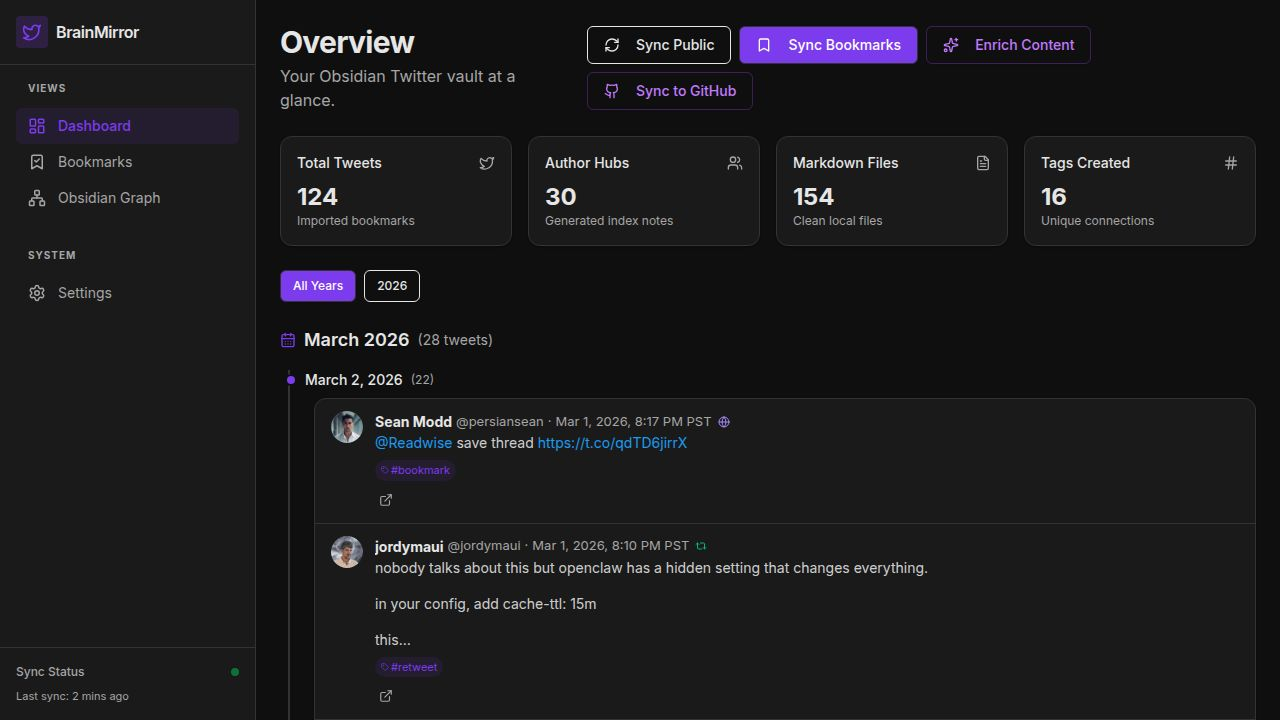
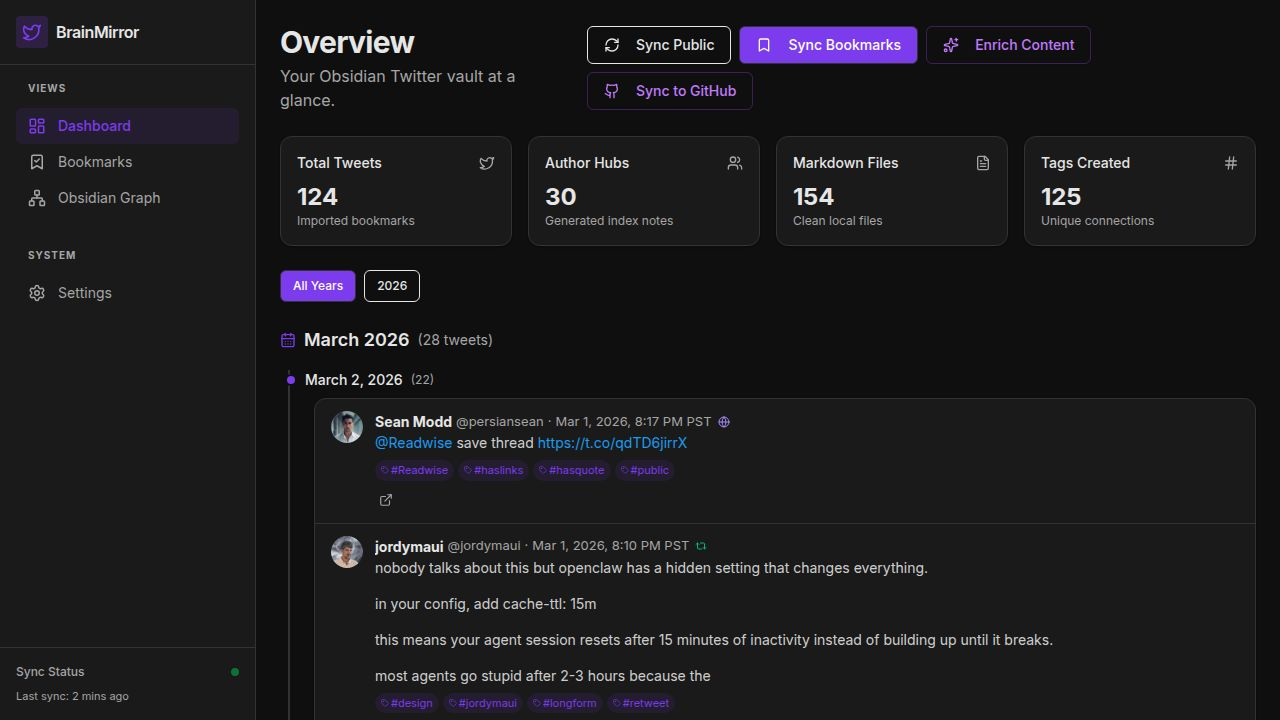
Improve tweet display to show full content and thread information
Refactors markdown generation and UI components to display full tweet content, including threads, and adds thread indicators to the dashboard and tweet pages.

Replit-Commit-Author: Agent
Replit-Commit-Session-Id: 5342a304-a4a8-490d-b331-d19f95d917d5
Replit-Commit-Checkpoint-Type: full_checkpoint
Replit-Commit-Event-Id: 4c083a5c-7874-4ee5-9667-5a37c9619313
Replit-Commit-Screenshot-Url: https://storage.googleapis.com/screenshot-production-us-central1/31c7cee5-2e00-4bf3-b877-27cbd05c0656/5342a304-a4a8-490d-b331-d19f95d917d5/33dNOlT
Replit-Helium-Checkpoint-Created: true

Changed region(s): [[0.2812, 0.8861, 0.8125, 1.0], [0.3125, 0.6417, 0.5312, 0.6722], [0.8125, 0.2444, 0.8438, 0.3056]]

diff --git a/server/routes.ts b/server/routes.ts
@@ -136,7 +136,39 @@ function getDateParts(dateStr: string): { year: string; month: string; monthName
   return { year, month, monthName, day, dateIso };
 }
 
-function generateMarkdown(tweet: TweetNote, filenameTemplate: string) {
+function renderSingleTweetBody(tweet: TweetNote): string[] {
+  const lines: string[] = [];
+
+  const body = tweet.content
+    .replace(/@(\w+)/g, "[[@$1]]")
+    .replace(/#(\w+)/g, "[[#$1]]");
+
+  lines.push(body);
+
+  const mediaUrls = (tweet.mediaUrls || []).filter(u => u && u !== "");
+  if (mediaUrls.length > 0) {
+    lines.push("");
+    lines.push("**Media:**");
+    mediaUrls.forEach((url, i) => {
+      lines.push(`![Tweet media ${i + 1}](${url})`);
+    });
+  }
+
+  if (tweet.quotedTweetContent && tweet.quotedTweetAuthorHandle) {
+    lines.push("");
+    lines.push("**Quoted Tweet:**");
+    lines.push(`> **${tweet.quotedTweetAuthorName || tweet.quotedTweetAuthorHandle}** (@${tweet.quotedTweetAuthorHandle})`);
+    lines.push(">");
+    const quotedLines = tweet.quotedTweetContent.split("\n");
+    quotedLines.forEach(line => {
+      lines.push(`> ${line}`);
+    });
+  }
+
+  return lines;
+}
+
+function generateMarkdown(tweet: TweetNote, filenameTemplate: string, allTweets?: TweetNote[]) {
   const { year, month, monthName, day, dateIso } = getDateParts(tweet.createdAt);
   const contentTrunc = tweet.content.substring(0, 40).replace(/[^a-zA-Z0-9 ]/g, "").trim();
   const filename = filenameTemplate
@@ -149,6 +181,13 @@ function generateMarkdown(tweet: TweetNote, filenameTemplate: string) {
   const folderPath = `${year}/${month}-${monthName}/${day}`;
 
   const allTags = autoGenerateTags(tweet);
+
+  const threadTweets = allTweets
+    ? allTweets
+        .filter(t => t.conversationId === tweet.conversationId)
+        .sort((a, b) => new Date(a.createdAt).getTime() - new Date(b.createdAt).getTime())
+    : [];
+  const isThread = threadTweets.length > 1;
 
   const frontmatter = [
     "---",
@@ -168,32 +207,84 @@ function generateMarkdown(tweet: TweetNote, filenameTemplate: string) {
     tweet.quotedTweetId ? `quoted_tweet_id: ${tweet.quotedTweetId}` : null,
     tweet.inReplyToTweetId ? `in_reply_to_tweet_id: ${tweet.inReplyToTweetId}` : null,
     (tweet.mediaUrls || []).filter(u => u).length > 0 ? `media_count: ${tweet.mediaUrls!.filter(u => u).length}` : null,
+    isThread ? `thread_length: ${threadTweets.length}` : null,
     "---",
   ].filter(Boolean).join("\n");
 
-  const body = tweet.content
-    .replace(/@(\w+)/g, "[[@$1]]")
-    .replace(/#(\w+)/g, "[[#$1]]");
+  const sections: string[] = [frontmatter, ""];
 
-  const sections: string[] = [frontmatter, "", body];
+  const mainBody = renderSingleTweetBody(tweet);
+  sections.push(...mainBody);
 
-  const mediaUrls = (tweet.mediaUrls || []).filter(u => u && u !== "");
-  if (mediaUrls.length > 0) {
+  if (isThread) {
     sections.push("");
-    sections.push("## Media");
-    mediaUrls.forEach((url, i) => {
-      sections.push(`![Tweet media ${i + 1}](${url})`);
-    });
-  }
-
-  if (tweet.quotedTweetContent && tweet.quotedTweetAuthorHandle) {
+    sections.push("---");
     sections.push("");
-    sections.push("## Quoted Tweet");
-    sections.push(`> **${tweet.quotedTweetAuthorName || tweet.quotedTweetAuthorHandle}** (@${tweet.quotedTweetAuthorHandle})`);
-    sections.push(">");
-    const quotedLines = tweet.quotedTweetContent.split("\n");
-    quotedLines.forEach(line => {
-      sections.push(`> ${line}`);
+    sections.push(`## Full Thread (${threadTweets.length} tweets)`);
+    sections.push("");
+
+    threadTweets.forEach((t, idx) => {
+      const isCurrentTweet = t.tweetId === tweet.tweetId;
+      const tweetDate = getDateParts(t.createdAt).dateIso;
+      const tweetBody = t.content
+        .replace(/@(\w+)/g, "[[@$1]]")
+        .replace(/#(\w+)/g, "[[#$1]]");
+
+      const headerLabel = isCurrentTweet
+        ? `${idx + 1}/${threadTweets.length} — @${t.authorHandle} (${tweetDate}) ⬅ this tweet`
+        : `${idx + 1}/${threadTweets.length} — @${t.authorHandle} (${tweetDate})`;
+
+      if (isCurrentTweet) {
+        sections.push(`### ${headerLabel}`);
+        sections.push("");
+        sections.push(tweetBody);
+      } else {
+        sections.push(`> [!note]- ${headerLabel}`);
+        sections.push(">");
+        const tweetLines = tweetBody.split("\n");
+        tweetLines.forEach(line => {
+          sections.push(`> ${line}`);
+        });
+      }
+
+      const tMediaUrls = (t.mediaUrls || []).filter(u => u && u !== "");
+      if (tMediaUrls.length > 0) {
+        if (isCurrentTweet) {
+          sections.push("");
+          tMediaUrls.forEach((url, i) => {
+            sections.push(`![Tweet media ${i + 1}](${url})`);
+          });
+        } else {
+          sections.push(">");
+          tMediaUrls.forEach((url, i) => {
+            sections.push(`> ![Tweet media ${i + 1}](${url})`);
+          });
+        }
+      }
+
+      if (t.quotedTweetContent && t.quotedTweetAuthorHandle) {
+        if (isCurrentTweet) {
+          sections.push("");
+          sections.push(`> **${t.quotedTweetAuthorName || t.quotedTweetAuthorHandle}** (@${t.quotedTweetAuthorHandle})`);
+          sections.push(">");
+          t.quotedTweetContent.split("\n").forEach(line => {
+            sections.push(`> ${line}`);
+          });
+        } else {
+          sections.push(">");
+          sections.push(`> > **${t.quotedTweetAuthorName || t.quotedTweetAuthorHandle}** (@${t.quotedTweetAuthorHandle})`);
+          sections.push("> >");
+          t.quotedTweetContent.split("\n").forEach(line => {
+            sections.push(`> > ${line}`);
+          });
+        }
+      }
+
+      sections.push("");
+      if (!isCurrentTweet) {
+        sections.push(`> [View tweet](${t.tweetUrl})`);
+        sections.push("");
+      }
     });
   }
 
@@ -1312,8 +1403,9 @@ export async function registerRoutes(
     try {
       const tweet = await storage.getTweetNote(req.params.id);
       if (!tweet) return res.status(404).json({ message: "Tweet note not found" });
+      const allTweets = await storage.getAllTweetNotes();
       const s = await storage.getSettings();
-      const md = generateMarkdown(tweet, s.filenameTemplate);
+      const md = generateMarkdown(tweet, s.filenameTemplate, allTweets);
       res.setHeader("Content-Type", "text/markdown; charset=utf-8");
       res.setHeader("Content-Disposition", `attachment; filename="${md.filename}"`);
       res.send(md.content);
@@ -1326,7 +1418,7 @@ export async function registerRoutes(
     try {
       const tweets = await storage.getAllTweetNotes();
       const s = await storage.getSettings();
-      const files = tweets.map(t => generateMarkdown(t, s.filenameTemplate));
+      const files = tweets.map(t => generateMarkdown(t, s.filenameTemplate, tweets));
       res.json(files);
     } catch (err: any) {
       res.status(500).json({ message: err.message });
@@ -1340,7 +1432,7 @@ export async function registerRoutes(
         return res.status(404).json({ message: "No notes to export" });
       }
       const s = await storage.getSettings();
-      const files = tweets.map(t => generateMarkdown(t, s.filenameTemplate));
+      const files = tweets.map(t => generateMarkdown(t, s.filenameTemplate, tweets));
 
       res.setHeader("Content-Type", "application/zip");
       res.setHeader("Content-Disposition", 'attachment; filename="BrainMirror-Obsidian-Notes.zip"');
@@ -1389,7 +1481,7 @@ export async function registerRoutes(
       }
       const s = await storage.getSettings();
       const files = tweets.map(t => {
-        const md = generateMarkdown(t, s.filenameTemplate);
+        const md = generateMarkdown(t, s.filenameTemplate, tweets);
         const datePath = md.folderPath ? `${md.folderPath}/${md.filename}` : md.filename;
         return { filename: datePath, content: md.content };
       });

diff --git a/client/src/pages/Dashboard.tsx b/client/src/pages/Dashboard.tsx
@@ -3,7 +3,7 @@ import { api } from "@/lib/api";
 import { queryClient } from "@/lib/queryClient";
 import { Card, CardContent } from "@/components/ui/card";
 import { Button } from "@/components/ui/button";
-import { Twitter, RefreshCw, FileText, Hash, Users, ExternalLink, Loader2, Bookmark, Repeat2, Globe, Pencil, Github, Sparkles, CalendarDays, Tag } from "lucide-react";
+import { Twitter, RefreshCw, FileText, Hash, Users, ExternalLink, Loader2, Bookmark, Repeat2, Globe, Pencil, Github, Sparkles, CalendarDays, Tag, MessageCircle } from "lucide-react";
 import { Link } from "wouter";
 import { Skeleton } from "@/components/ui/skeleton";
 import { useToast } from "@/hooks/use-toast";
@@ -465,7 +465,16 @@ export default function Dashboard() {
                                       {tweet.source === "public" && <Globe size={12} className="text-[#A78BFA] shrink-0 ml-0.5" />}
                                       {tweet.source === "manual" && <Pencil size={12} className="text-muted-foreground shrink-0 ml-0.5" />}
                                     </div>
-                                    <div className="text-[14px] text-foreground/90 leading-[18px] mt-0.5 whitespace-pre-wrap">{formatContent(info.displayContent)}</div>
+                                    <div className="text-[14px] text-foreground/90 leading-[20px] mt-0.5 whitespace-pre-wrap break-words">{formatContent(info.displayContent)}</div>
+                                    {(() => {
+                                      const threadCount = (tweets || []).filter((t: any) => t.conversationId === tweet.conversationId).length;
+                                      return threadCount > 1 ? (
+                                        <div data-testid={`thread-indicator-${tweet.id}`} className="flex items-center gap-1 mt-1.5 text-[12px] text-[#7C3AED] font-medium">
+                                          <MessageCircle size={12} />
+                                          <span>Thread ({threadCount} tweets)</span>
+                                        </div>
+                                      ) : null;
+                                    })()}
                                     {allMedia.length > 0 && (
                                       <div className={`mt-2 rounded-xl overflow-hidden border border-border ${allMedia.length > 1 ? "grid grid-cols-2 gap-0.5" : ""}`}>
                                         {allMedia.map((url: string, i: number) => (

diff --git a/client/src/pages/TweetsPage.tsx b/client/src/pages/TweetsPage.tsx
@@ -107,7 +107,7 @@ export default function TweetsPage() {
                 const autoTags = getAutoTags(tweet);
                 const profileSrc = tweet.authorProfileImageUrl ? proxyImageUrl(tweet.authorProfileImageUrl) : null;
                 return (
-                  <article key={tweet.id} data-testid={`card-tweet-${tweet.id}`} className="px-4 py-3 hover:bg-foreground/[0.03] transition-colors cursor-pointer" onDoubleClick={() => setThreadTweet(tweet)}>
+                  <article key={tweet.id} data-testid={`card-tweet-${tweet.id}`} className="px-4 py-3 hover:bg-foreground/[0.03] transition-colors cursor-pointer" onClick={() => setThreadTweet(tweet)}>
                     {info.isRetweet && (
                       <div className="flex items-center gap-2 text-[13px] text-muted-foreground mb-1 ml-[44px]">
                         <Repeat2 size={12} />
@@ -138,7 +138,16 @@ export default function TweetsPage() {
                           {tweet.source === "public" && <Globe size={12} className="text-[#A78BFA] shrink-0 ml-0.5" />}
                           {tweet.source === "manual" && <Pencil size={12} className="text-muted-foreground shrink-0 ml-0.5" />}
                         </div>
-                        <div className="text-[14px] text-foreground/90 leading-[18px] mt-0.5 whitespace-pre-wrap">{formatContent(info.displayContent)}</div>
+                        <div className="text-[14px] text-foreground/90 leading-[20px] mt-0.5 whitespace-pre-wrap break-words">{formatContent(info.displayContent)}</div>
+                        {(() => {
+                          const threadCount = allTweets.filter((t: any) => t.conversationId === tweet.conversationId).length;
+                          return threadCount > 1 ? (
+                            <div data-testid={`thread-indicator-${tweet.id}`} className="flex items-center gap-1 mt-1.5 text-[12px] text-[#7C3AED] font-medium">
+                              <MessageCircle size={12} />
+                              <span>Thread ({threadCount} tweets)</span>
+                            </div>
+                          ) : null;
+                        })()}
                         {mediaUrls.length > 0 && (
                           <div className={`mt-2 rounded-xl overflow-hidden border border-border ${mediaUrls.length > 1 ? "grid grid-cols-2 gap-0.5" : ""}`}>
                             {mediaUrls.slice(0, 4).map((url: string, i: number) =>

diff --git a/replit.md b/replit.md
@@ -81,6 +81,9 @@ A web-based second brain system that transforms bookmarked tweets into a structu
 - Wiki-links for authors (`[[@handle]]`) and hashtags (`[[#tag]]`)
 - ZIP download for bulk export into Obsidian vault
 - Individual file download also available
+- Thread-aware: markdown files include full thread context with Obsidian callout syntax (`> [!note]-`) for collapsible thread tweets
+- `generateMarkdown(tweet, template, allTweets?)` accepts optional allTweets to reconstruct threads by conversationId
+- Thread tweets sorted chronologically; current tweet shown inline, others in collapsible callouts
 
 ## Shared Utilities (client/src/lib/utils.ts)
 
